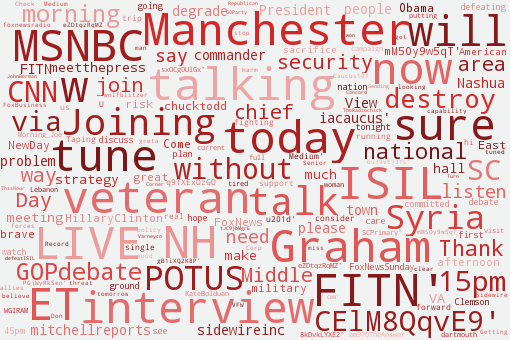
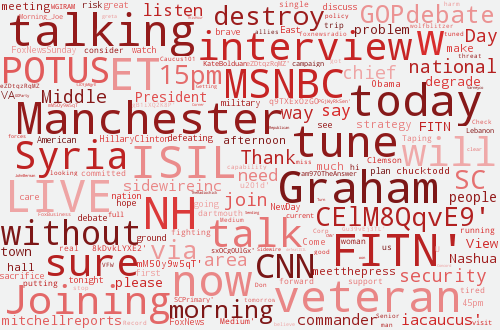
css improvements

diff --git a/static/min.css b/static/min.css
@@ -17,8 +17,7 @@ body li {
 
 #container {
 	text-align: center;
-	/*margin: 0 auto;*/
-	margin: 0 60px 0 60px;
+	/*margin: 0 60px 0 60px;*/
 }
 
 img.left_star {

diff --git a/make_wordclouds.py b/make_wordclouds.py
@@ -80,7 +80,7 @@ for c in candidates:
 		background_color = "white"
 	else:
 		background_color = "#F1F2F2"
-	wordcloud = WordCloud(background_color=background_color, margin=1, max_font_size=45, max_words=175, width=510, height=340, prefer_horizontal=1.0, stopwords=STOPWORDS)
+	wordcloud = WordCloud(background_color=background_color, margin=1, max_font_size=45, max_words=175, width=500, height=330, prefer_horizontal=1.0, stopwords=STOPWORDS)
 	wordcloud.generate(text)
 	if c.party == 'Republican Party':
 		print c.party
